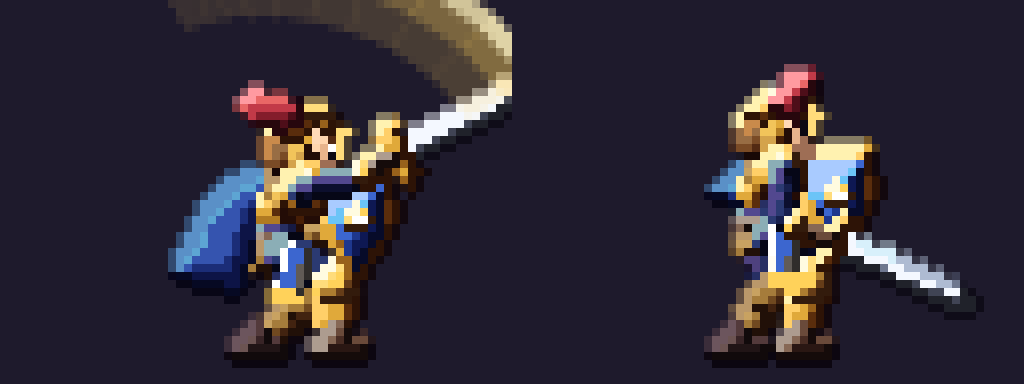
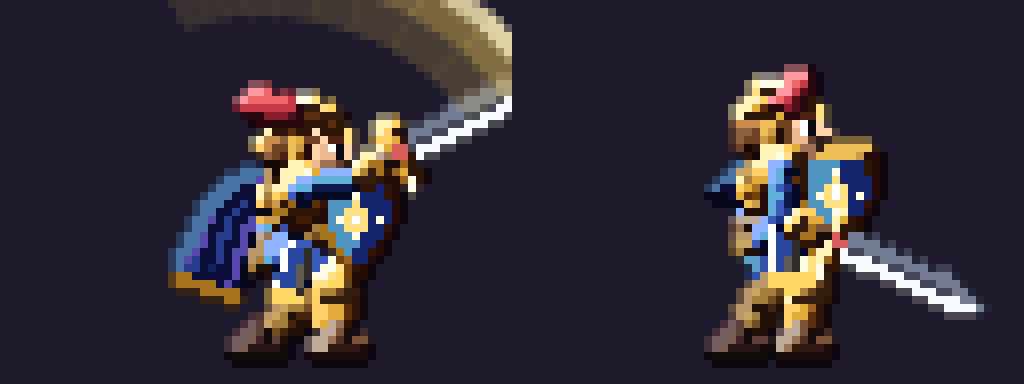
Pixel art fase 3 revision 2: Paladin con cara definida, capa con pliegues, escudo con sol, espada con bisel, peto en placas
Claude-Session: https://claude.ai/code/session_011eeWNo3MRZcztybaatA5Az

Changed region(s): [[0.1562, 0.1875, 0.5, 0.8125], [0.6875, 0.1562, 0.9688, 0.8438]]

diff --git a/tools/art_players/cls_paladin.py b/tools/art_players/cls_paladin.py
@@ -15,7 +15,7 @@ class Paladin(PClass):
     skill_kind = 'thrust'
 
     def setup(self):
-        self.D = Dims(k=1.06, hr=4.7, sw=1.25)
+        self.D = Dims(k=1.06, hr=5.0, sw=1.25)
         self.carry = dict(afA=32, afE=0.85, abA=62, abE=0.78, wa=66, lean=3,
                           guard=dict(afA=100, afE=0.5, abA=92, abE=0.95, wa=172, hy=2, lean=8),
                           guard2=dict(hy=2.6, lean=10, abA=96))
@@ -45,47 +45,68 @@ class Paladin(PClass):
                                                             dict(ffy=-5, bfy=-8, ffa=25, bfa=30)]), (1, 3))
 
     def init_mats(self):
-        mat('gold', '#E0A93A', hl='#FFF2B0')
-        mat('goldL', '#FFD25A', hl='#FFFBE0')
-        mat('goldD', '#B07A22', hl='#F2C45A')
-        mat('cloth', '#F2EEE4', hl='#FFFFFF')
-        mat('steel', '#AEBBD2', hl='#F4F8FF')
-        mat('under', '#2B3A72')                      # sayo azul marino: separa la armadura dorada de los miembros
-        mat('blue', '#3C66CF', hl='#A9CBFF')         # capa y campo del escudo
-        mat('leather', '#6A4A3A')
+        mat('gold', '#E3AC3C', hl='#FFF4B8')
+        mat('goldL', '#FFD764', hl='#FFFCE6')
+        mat('goldD', '#A8731F', hl='#EDBE55')
+        mat('cloth', '#F4F0E6', hl='#FFFFFF')
+        mat('steel', '#B4C0D6', hl='#F6FAFF')
+        mat('under', '#3A5CB8', hl='#8FB4FF')        # sayo azul medio: se lee frente al oro y al fondo oscuro
+        mat('blue', '#2A47A0', hl='#8DB6FF')         # capa (mas oscura que el sayo para separar capas) y campo del escudo
+        mat('leather', '#7A5238')
         mat('dark', '#221C30')
-        mat('skin', '#E8B48C', hl='#FFD9B8')
-        mat('hair', '#7A4B26', hl='#C98A4B')
-        mat('plume', '#C23A48', hl='#FF9AA0')
+        mat('skin', '#EDB98F', hl='#FFE0C0')
+        mat('hair', '#6E4222', hl='#C98A4B')
+        mat('plume', '#C73A4A', hl='#FF9AA0')
         mat('eye', '#BFF3FF', hl='#FFFFFF')
         mat('crimson', '#B5333F', hl='#FF8A8A')
-        mat_back('gold'); mat_back('goldD'); mat_back('under'); mat_back('leather'); mat_back('cloth', 0.8); mat_back('blue', 0.78); mat_back('steel', 0.75)
+        mat_back('gold'); mat_back('goldD'); mat_back('under', 0.85); mat_back('leather'); mat_back('cloth', 0.8); mat_back('blue', 0.8); mat_back('steel', 0.75)
+
+    # --- ayudas
+    @staticmethod
+    def _normals(pts):
+        out = []
+        for i in range(len(pts)):
+            a = pts[max(0, i - 1)]; b = pts[min(len(pts) - 1, i + 1)]
+            dx, dy = b[0] - a[0], b[1] - a[1]
+            L = math.hypot(dx, dy) or 1.0
+            out.append((-dy / L, dx / L))
+        return out
+
+    def _cape(self, X):
+        pts = X.rb['cape']; ws = [w * X.D.k for w in X.cls.rib_by_name['cape'].widths]
+        ribbons_draw(X, 'cape', 'blue_b', dome=2.6)
+        nr = self._normals(pts)
+        # pliegues: dos sombras largas y un filo de luz, siguiendo la caida de la tela
+        for f, m, tn, r in ((-0.30, 'blue_b', 1, 0.55), (0.28, 'blue_b', 1, 0.5), (-0.62, 'blue_b', 4, 0.4)):
+            for i in range(1, len(pts) - 1):
+                a = (pts[i][0] + nr[i][0] * ws[i] * f, pts[i][1] + nr[i][1] * ws[i] * f)
+                b = (pts[i + 1][0] + nr[i + 1][0] * ws[i + 1] * f, pts[i + 1][1] + nr[i + 1][1] * ws[i + 1] * f)
+                cap(X, a, b, r * X.D.k, r * 0.8 * X.D.k, m, tone=tn)
+        # ribete dorado en el borde bajo
+        i = len(pts) - 1
+        a = (pts[i][0] + nr[i][0] * ws[i] * 0.9, pts[i][1] + nr[i][1] * ws[i] * 0.9)
+        b = (pts[i][0] - nr[i][0] * ws[i] * 0.9, pts[i][1] - nr[i][1] * ws[i] * 0.9)
+        cap(X, a, b, 0.7 * X.D.k, 0.7 * X.D.k, 'goldD', tone=3)
 
     def draw(self, X):
         D, p, sk = X.D, X.p, X.sk
         k = D.k
-        # capa azul real (separa la silueta del fondo oscuro y del tabardo claro)
-        ribbons_draw(X, 'cape', 'blue_b', dome=2.6)
+        self._cape(X)
         # pierna trasera
         leg(X, sk.hipB, sk.kneeB, sk.ankB, 2.2, 1.8, 1.5, 'under_b', 'leather_b', p.bfa, kneepad='gold_b', greave='gold_b')
-        # torso: sayo azul + peto dorado ahusado a la cintura + cinturon
+        # torso: sayo + peto dorado en placas (cuerpo, faja inferior) separadas por juntas oscuras
         poly(X, tp(X, [(-3.0, -0.6), (2.8, -0.6), (3.2, 3.5), (3.3, 7.6), (2.6, 9.6), (-2.4, 9.6), (-3.2, 7), (-3.3, 3)]), 'under', dome=3.0)
-        poly(X, tp(X, [(-3.0, 3.4), (2.6, 3.4), (3.9, 5.0), (3.9, 7.8), (3.0, 9.9), (-2.5, 9.9), (-3.8, 7.6), (-3.9, 5.0)]), 'gold', dome=3.0)
-        poly(X, tp(X, [(-3.3, 0.9), (3.3, 0.9), (3.3, 2.5), (-3.3, 2.5)]), 'leather', dome=1.2)
-        poly(X, tp(X, [(0.5, 0.7), (2.5, 0.7), (2.5, 2.7), (0.5, 2.7)]), 'goldL', tone=4)
-        poly(X, tp(X, [(1.0, 1.2), (2.0, 1.2), (2.0, 2.2), (1.0, 2.2)]), 'dark', tone=2)
-        # faldon trasero
-        poly(X, tp(X, [(-3.3, 0.9), (-0.6, 0.9), (-0.8, -2.6), (-3.0, -2.0)]), 'gold_b', dome=1.4)
-        # emblema (sol) en el peto
-        c = tp(X, [(0.9, 6.2)])[0]
-        circ(X, c, 1.4 * k, 'goldD', tone=3)
-        circ(X, c, 0.95 * k, 'goldL', tone=4)
-        circ(X, c, 0.45 * k, 'cloth', tone=5)
-        # reborde del peto
-        poly(X, tp(X, [(-3.0, 3.4), (2.6, 3.4), (3.4, 4.3), (-3.4, 4.3)]), 'goldD', tone=3)
+        poly(X, tp(X, [(-3.2, 4.3), (2.8, 4.3), (4.0, 5.4), (4.0, 8.0), (3.1, 10.0), (-2.5, 10.0), (-3.9, 7.8), (-3.9, 5.4)]), 'gold', dome=3.4)
+        poly(X, tp(X, [(-3.0, 3.0), (2.6, 3.0), (3.3, 4.5), (-3.4, 4.5)]), 'goldD', dome=1.8)           # faja inferior del peto
+        poly(X, tp(X, [(-3.4, 4.4), (3.5, 4.4), (3.5, 4.9), (-3.4, 4.9)]), 'dark', tone=1)              # junta
+        poly(X, tp(X, [(1.0, 5.2), (1.9, 5.2), (1.9, 9.4), (1.0, 9.4)]), 'goldL', tone=4)               # cresta central del peto (reflejo)
+        poly(X, tp(X, [(-3.3, 1.0), (3.3, 1.0), (3.3, 2.6), (-3.3, 2.6)]), 'leather', dome=1.2)           # cinturon
+        poly(X, tp(X, [(0.4, 0.8), (2.6, 0.8), (2.6, 2.8), (0.4, 2.8)]), 'goldL', tone=4)                # hebilla
+        poly(X, tp(X, [(1.0, 1.3), (2.0, 1.3), (2.0, 2.3), (1.0, 2.3)]), 'dark', tone=2)
+        poly(X, tp(X, [(-3.3, 1.0), (-0.6, 1.0), (-0.8, -2.6), (-3.0, -2.0)]), 'gold_b', dome=1.4)        # faldon trasero
         # pierna delantera
         leg(X, sk.hipF, sk.kneeF, sk.ankF, 2.4, 1.9, 1.6, 'under', 'leather', p.ffa, kneepad='goldL', greave='gold')
-        # tabardo blanco con ribete dorado
+        # tabardo blanco con banda azul y ribete dorado
         poly(X, tp(X, [(0.2, 1.5), (3.3, 1.5), (3.9, -1), (3.6, -4.8), (1.8, -5.8), (0.4, -4.8), (0.0, -1)]), 'cloth', dome=2.0)
         poly(X, tp(X, [(0.9, 1.0), (2.3, 1.0), (2.2, -4.6), (1.5, -5.2), (0.9, -4.6)]), 'blue', tone=3)
         poly(X, tp(X, [(0.2, -4.0), (3.7, -4.0), (3.5, -4.9), (1.8, -5.8), (0.4, -4.9)]), 'goldL', tone=3)
@@ -93,31 +114,34 @@ class Paladin(PClass):
         circ(X, lerp_pt(sk.neck, sk.hip, 0.0), 2.3 * k, 'steel', dome=1.6)
         # brazo trasero con escudo
         self._shield_arm(X)
-        # cabeza: yelmo abierto con la cara visible (ojo, ceja, mandibula), cabello bajo el yelmo, cresta y pluma
+        # cabeza
         hc = sk.head
         circ(X, hc, D.hr, 'gold', dome=3.6)
-        poly(X, hp(X, [(0.9, 2.3), (4.5, 1.9), (4.9, -0.6), (4.5, -2.8), (1.8, -3.4), (0.9, -1.0)]), 'skin', dome=1.2)       # cara
-        poly(X, hp(X, [(1.6, -1.6), (4.6, -1.6), (4.4, -3.0), (1.8, -3.5)]), 'skin', tone=2)                                 # mandibula en sombra
-        poly(X, hp(X, [(2.4, 1.6), (4.7, 1.3), (4.7, 0.8), (2.4, 1.1)]), 'hair', tone=2)                                      # ceja
-        poly(X, hp(X, [(3.0, 0.7), (4.2, 0.7), (4.2, -0.5), (3.0, -0.5)]), 'dark', tone=1)                                    # ojo
-        circ(X, hpt(X, 3.1, 0.2), 0.35 * k, 'eye', tone=5)                                                                    # brillo del ojo
-        # frente del yelmo con borde dorado y cresta
-        poly(X, hp(X, [(-4.4, 1.2), (-2.0, 4.6), (2.0, 4.8), (4.9, 2.3), (4.7, 1.5), (0.9, 2.3), (-0.6, 0.6)]), 'gold', dome=2.2)
-        poly(X, hp(X, [(-3.4, 2.6), (-0.8, 4.9), (2.8, 4.9), (4.4, 3.0), (2.6, 3.5), (-0.8, 3.7)]), 'goldL', dome=1.4)
-        # nuca y cabello bajo el yelmo
-        poly(X, hp(X, [(-4.4, 0.8), (-0.6, 0.6), (-0.4, -2.6), (-2.2, -4.0), (-4.2, -2.4)]), 'hair', dome=1.4)
-        # guarda de mejilla
-        poly(X, hp(X, [(-1.6, 0.6), (0.9, 0.9), (1.5, -1.2), (0.6, -3.4), (-1.2, -3.0)]), 'goldD', dome=1.6)
-        # barra nasal
-        poly(X, hp(X, [(4.1, 3.0), (5.0, 2.8), (4.8, -0.2), (4.1, -0.2)]), 'goldL', tone=4)
+        # cara: piel clara, mandibula en sombra, nariz que sobresale, ojo con brillo, ceja
+        poly(X, hp(X, [(0.6, 2.3), (4.9, 2.0), (5.4, -0.4), (5.1, -3.1), (2.2, -4.0), (0.6, -1.4)]), 'skin', dome=1.4)
+        poly(X, hp(X, [(1.4, -1.9), (4.9, -1.9), (4.7, -3.2), (2.0, -3.8)]), 'skin', tone=2)
+        circ(X, hpt(X, 5.2, -0.3), 0.75 * k, 'skin', tone=4)                                             # nariz
+        poly(X, hp(X, [(2.7, 1.7), (5.0, 1.5), (5.0, 0.9), (2.7, 1.2)]), 'hair', tone=2)                 # ceja
+        poly(X, hp(X, [(3.7, 0.9), (4.5, 0.9), (4.5, -0.5), (3.7, -0.5)]), 'dark', tone=1)               # ojo
+        poly(X, hp(X, [(2.8, 0.9), (3.7, 0.9), (3.7, -0.5), (2.8, -0.5)]), 'eye', tone=5)                # blanco del ojo
+        poly(X, hp(X, [(3.6, -2.3), (4.5, -2.3), (4.5, -2.7), (3.6, -2.7)]), 'skin', tone=1)             # boca
+        # yelmo: casquete con borde inferior oscuro, cresta y barra nasal corta
+        poly(X, hp(X, [(-5.0, 1.4), (-2.4, 5.3), (2.2, 5.5), (5.2, 2.7), (4.9, 2.0), (0.6, 2.4), (-1.0, 0.6)]), 'gold', dome=2.4)
+        poly(X, hp(X, [(-3.8, 3.2), (-1.0, 5.6), (3.2, 5.6), (4.8, 3.3), (3.0, 3.9), (-1.0, 4.1)]), 'goldL', dome=1.5)
+        poly(X, hp(X, [(0.6, 2.4), (5.0, 2.0), (5.1, 1.8), (0.6, 2.2)]), 'dark', tone=2)                # sombra bajo el borde del yelmo
+        poly(X, hp(X, [(4.6, 3.0), (5.4, 2.6), (5.1, 0.6), (4.5, 0.8)]), 'goldL', tone=4)                # barra nasal
+        # cabello bajo el yelmo (nuca y patilla)
+        poly(X, hp(X, [(-4.8, 1.0), (-0.8, 0.8), (-0.4, -2.6), (-2.4, -3.8), (-4.4, -2.4)]), 'hair', dome=1.4)
+        poly(X, hp(X, [(0.2, 1.2), (1.2, 1.2), (1.2, -1.8), (0.2, -1.8)]), 'hair', tone=3)
+        # guarda de mejilla dorada
+        poly(X, hp(X, [(-1.8, 0.4), (0.3, 0.6), (0.9, -1.5), (0.0, -3.6), (-1.6, -3.2)]), 'goldD', dome=1.6)
         ribbons_draw(X, 'plume', 'plume', dome=1.6)
-        # hombrera delantera en capas
-        circ(X, (sk.shF[0] - 0.2, sk.shF[1] + 1.2), 3.2 * k, 'goldD', dome=2.4)
-        circ(X, sk.shF, 3.1 * k, 'gold', dome=2.8)
+        # hombrera en capas con remache
+        circ(X, (sk.shF[0] - 0.2, sk.shF[1] + 1.3), 3.3 * k, 'goldD', dome=2.4)
+        circ(X, sk.shF, 3.2 * k, 'gold', dome=2.8)
         circ(X, (sk.shF[0] + 0.4, sk.shF[1] - 0.7), 1.7 * k, 'goldL', dome=1.6)
         # brazo delantero: manga azul, brazal dorado, guantelete de cuero
         arm(X, sk.shF, sk.elbF, sk.handF, 1.7, 1.5, 1.3, 'under', glove='leather', bracer='gold')
-        # espada
         self._sword(X)
 
     def _shield_arm(self, X):
@@ -128,19 +152,37 @@ class Paladin(PClass):
         ctr = (h[0] + 1.6 * k, h[1] - 0.2)
         def sp(pts, s=1.0):
             return [(ctr[0] + x * s * k, ctr[1] + y * s * k) for x, y in pts]
-        outer = [(-4.2, -6.2), (4.2, -6.2), (4.4, 0.2), (0, 7.2), (-4.4, 0.2)]
-        poly(X, sp(outer), 'gold', dome=3.0)                 # borde dorado
-        poly(X, sp(outer, 0.72), 'blue', dome=3.0)            # campo azul
-        circ(X, sp([(0, -0.8)])[0], 1.7 * k, 'goldL', dome=1.6)
-        circ(X, sp([(0, -0.8)])[0], 0.7 * k, 'cloth', tone=5)
+        outer = [(-4.3, -6.4), (4.3, -6.4), (4.5, 0.2), (0, 7.4), (-4.5, 0.2)]
+        poly(X, sp(outer), 'goldD', dome=2.4)                                                       # borde
+        poly(X, sp(outer, 0.80), 'gold', dome=2.0)                                                  # reborde dorado
+        poly(X, sp([(-3.2, -5.0), (0, -5.0), (0, 5.2), (-3.4, 0.0)]), 'blue', tone=4)               # campo azul: mitad iluminada
+        poly(X, sp([(0, -5.0), (3.2, -5.0), (3.4, 0.0), (0, 5.2)]), 'blue', tone=2)                 # mitad en sombra
+        # sol: disco + cuatro rayos largos y cuatro cortos
+        c = sp([(0, -1.0)])[0]
+        for ang in range(0, 360, 90):
+            a = math.radians(ang)
+            cap(X, c, (c[0] + math.cos(a) * 3.1 * k, c[1] + math.sin(a) * 3.1 * k), 0.5 * k, 0.15 * k, 'goldL', tone=5)
+        for ang in range(45, 360, 90):
+            a = math.radians(ang)
+            cap(X, c, (c[0] + math.cos(a) * 2.2 * k, c[1] + math.sin(a) * 2.2 * k), 0.4 * k, 0.1 * k, 'goldL', tone=4)
+        circ(X, c, 1.35 * k, 'goldL', tone=4)
+        circ(X, c, 0.6 * k, 'cloth', tone=5)
 
     def _sword(self, X):
         W = lambda pts: wpoly(X, pts)
-        poly(X, W([(2.2, -1.5), (17.0, -1.6), (20.6, 0), (17.0, 1.6), (2.2, 1.5)]), 'steel', dome=1.8)
-        poly(X, W([(3.0, -0.35), (17.5, -0.35), (17.5, 0.35), (3.0, 0.35)]), 'steel', tone=5)
-        poly(X, W([(1.2, -4.6), (2.9, -3.3), (2.9, 3.3), (1.2, 4.6), (0.6, 3.3), (0.6, -3.3)]), 'gold', dome=1.4)
-        poly(X, W([(-2.4, -0.9), (1.5, -0.9), (1.5, 0.9), (-2.4, 0.9)]), 'leather', dome=1.0)
-        circ(X, wpt(X, -3.2, 0), 1.3 * X.D.k, 'goldL', dome=1.2)
+        # hoja con bisel: mitad superior iluminada, inferior en sombra, canal central
+        poly(X, W([(2.2, -1.6), (17.0, -1.7), (21.0, 0), (17.0, 1.7), (2.2, 1.6)]), 'steel', tone=3)
+        poly(X, W([(2.2, -1.6), (17.0, -1.7), (21.0, 0), (3.0, -0.1)]), 'steel', tone=5)
+        poly(X, W([(3.0, 0.1), (21.0, 0), (17.0, 1.7), (2.2, 1.6)]), 'steel', tone=2)
+        poly(X, W([(3.4, -0.25), (17.5, -0.25), (17.5, 0.25), (3.4, 0.25)]), 'steel', tone=1)
+        # guarda alada dorada con remates
+        poly(X, W([(1.2, -4.8), (2.9, -3.4), (2.9, 3.4), (1.2, 4.8), (0.6, 3.4), (0.6, -3.4)]), 'gold', dome=1.6)
+        poly(X, W([(1.0, -4.8), (1.8, -4.8), (1.8, -3.0), (1.0, -3.0)]), 'goldL', tone=5)
+        circ(X, wpt(X, 1.9, 0), 0.85 * X.D.k, 'crimson', tone=4)
+        # empuñadura de cuero con vendas y pomo
+        poly(X, W([(-2.4, -0.95), (0.6, -0.95), (0.6, 0.95), (-2.4, 0.95)]), 'leather', dome=1.0)
+        poly(X, W([(-1.6, -1.0), (-1.1, -1.0), (-1.1, 1.0), (-1.6, 1.0)]), 'goldD', tone=3)
+        circ(X, wpt(X, -3.3, 0), 1.35 * X.D.k, 'goldL', dome=1.2)
 
     def fx(self, X, name, i, n):
         aura_fx(self, X, name, i, n)

diff --git a/docs/PIXEL_ART_FASE3.md b/docs/PIXEL_ART_FASE3.md
@@ -19,3 +19,10 @@ Capturas: `docs/capturas_arte/paladin_fase3_captura_partida_real.png` (partida r
 
 ## Pendiente
 Otras 9 clases, enemigos, jefes, armas secundarias y efectos no rediseñados.
+
+## Revisión 2 (v3)
+Cambios sobre v2, todo dentro de `cls_paladin.py` y regenerado en todas las poses (JSON idéntico):
+- Cabeza (radio 5,0): cara con ojo (blanco + pupila), ceja, nariz que sobresale y boca; casquete con borde y sombra bajo el borde; barra nasal; cabello en nuca y patilla; guarda de mejilla.
+- Armadura: sayo azul medio (se separa del fondo); peto en placas (cuerpo + faja) con juntas oscuras y reflejo central; cinturón con hebilla; hombrera en capas; brazales y guanteletes diferenciados.
+- Capa con dos pliegues oscuros, un filo de luz y ribete dorado. Escudo: borde + reborde dorado, campo azul bipartido (luz/sombra) y sol de 8 rayos con disco. Espada: hoja con bisel y canal, guarda alada con remates y gema, empuñadura vendada, pomo.
+- Comparación: `docs/capturas_arte/paladin_rev2_escala_juego_fase2_v2_v3.png` (3 filas, a escala de juego sobre fondo real) y `paladin_rev2_ampliado_fase2_v2_v3.png`.
